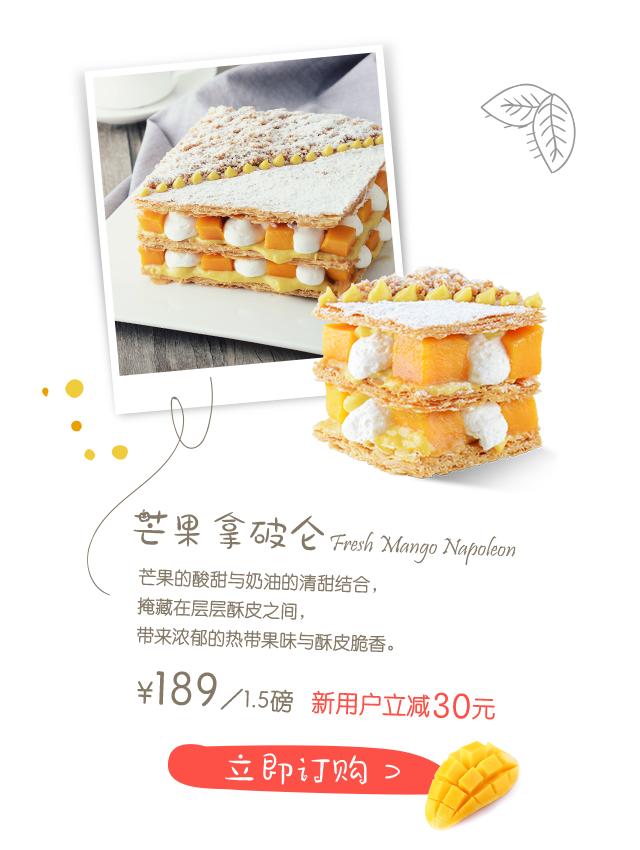
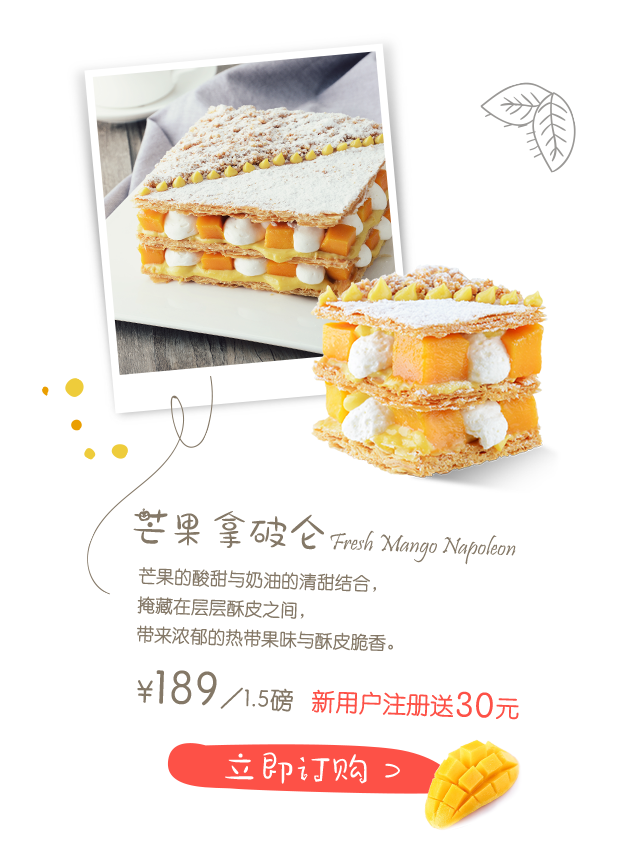
拿破仑注册送30

diff --git a/js/register-welfare16.js b/js/register-welfare16.js
@@ -11,32 +11,45 @@
 	
     function fnInit(){
         var $oContent = $('.content'),
+        	$oBtnBuy = $oContent.find('.btn-buy'),
             $oMaskResult = $('#mask-result'),
             $oBtnVcode = $oMaskResult.find('.btn-vcode'),
             $oResultInfo = $oMaskResult.find(".result-info"),
             $oBtnReg = $oResultInfo.find('#btn-register'),
             $oRegTip = $oResultInfo.find('.tips'),
             $oBtnCloseMask = $oMaskResult.find('.btn-result-close'),
+            regLogin = false, // 验证是否登录
             regMobile = true, // 手机号验证
             regVcode = true,  // 验证码验证
+            regUser = false, // 新老用户验证   true：新用户   false：老用户
+            tipIcon = 'dialog2/images/icon/success.png',
+            tipText = '领取成功',
+            count = 0, // 验证重复获取验证码
+            _interval = '',
             time = 58;
         
         setTimeout(function(){
         	$oMaskResult.fadeIn();
         },2000);
         
-        
         // 获取验证码
 	    $oBtnVcode.on("tap",function(){
-	    	$oBtnVcode.text('59" 后重新发送');
-	    	var interval = setInterval(function(){
-	    		$oBtnVcode.text(time-- +'" 后重新发送');
-	    		if(time==-1){
-	    			clearInterval(interval);
-	    			time = 58;
-	    			$oBtnVcode.text('获取验证码');
-	    		}
-	    	},1000);
+	    	// 验证重复获取验证码
+	    	if(count == 0){
+	    		count = 1;
+		    	$oBtnVcode.css({'background-color':'#99807f','border-color':'#99807f'});
+		    	$oBtnVcode.text('59" 后重新发送');
+		    	_interval = setInterval(function(){
+		    		$oBtnVcode.text(time-- +'" 后重新发送');
+		    		if(time==-1){
+		    			count = 0;
+		    			clearInterval(_interval);
+		    			time = 58;
+		    			$oBtnVcode.text('获取验证码');
+		    			$oBtnVcode.css({'background-color':'#983023','border-color':'#983023'});
+		    		}
+		    	},1000);
+	    	}	    	
 		});
         
 	    // 立即领取
@@ -46,16 +59,23 @@
         	if(regMobile){
         		// 验证码验证
         		if(regVcode){
+        			//新老用户验证
+        			if(regUser){
+						tipIcon='dialog2/images/icon/success.png';
+						tipText='领取成功';
+        			}else{
+        				tipIcon = 'dialog2/images/icon/fail.png';
+						tipText = '您已是老用户';
+        			}
+	    			clearInterval(_interval);
         			$oMaskResult.fadeOut();
-//  				setTimeout(function(){
-			        	$(document).dialog({
-							type: 'toast',
-							infoIcon: 'dialog2/images/icon/success.png',
-							infoText: '领取成功',
-							autoClose: '1500'
-						});
-//			        },1000);
-    				
+		        	$(document).dialog({
+						type: 'toast',
+						infoIcon: tipIcon,
+						infoText: tipText,
+						autoClose: '1500'
+					});
+					regLogin = true;
         		}else{
         			$oRegTip.text('验证码不正确');
         		}
@@ -67,9 +87,24 @@
         
         // 关闭弹窗
 		$oBtnCloseMask.on("tap",function(){
+			$oResultInfo.find('input').val('');
+			$oBtnVcode.text('获取验证码');
+			$oBtnVcode.css({'background-color':'#983023','border-color':'#983023'});
+			clearInterval(_interval);
+			time = 58;
+			count = 0;
 			$oMaskResult.fadeOut();
 		});
-
+		
+		// 立即订购
+		$oBtnBuy.on("tap",function(){
+			if(regLogin){
+				// 跳转至相应页面
+			}else{
+				$oMaskResult.fadeIn();
+			}
+		});
+		
     }
     
 })(Zepto, window, document);

diff --git a/css/register-welfare16.css b/css/register-welfare16.css
@@ -1,9 +1,9 @@
 body { max-width: 640px; margin: 0 auto; }
 .content { background: #fff url(../img/register-welfare16/bg.png); }
 .content .cakes { position: relative; }
-.content .cakes a { position: absolute; bottom: 3%; left: 27%; display: block; width: 45%; height: 30px; }
+.content .cakes a { position: absolute; bottom: 3%; left: 27%; display: block; width: 45%; height: 6%; }
 .content .cake02 a { bottom: 2.4%; left: 28%; }
-.content .cake03 a { bottom: 6%; left: 26%; }
+.content .cake03 a { bottom: 7%; left: 26%; }
 
 .content .rules { width: 90%;padding: 26px 5% 50px; background-color: #fd5147; text-align: justify; color: #fff; }
 .content .rules dt { margin-bottom: 4px; line-height: 30px; font-size: 18px; }
@@ -14,9 +14,9 @@ body { max-width: 640px; margin: 0 auto; }
 #mask-result { position: fixed; top: 0; left: 0; display: none; width: 100%; height: 100%; background: rgba(0, 0, 0, 0.7); z-index: 9999; }
 #mask-result img { width: 100%; }
 #mask-result .mask-bg,
-#mask-result .result { position: absolute; top: 50%; left: 0; right: 0; width: 90%; margin: auto; z-index: 9999; overflow: hidden; -webkit-transform: translateY(-50%); transform: translateY(-50%); }
-#mask-result .result { top: 30%; left: 3%;}
-#mask-result .result .btn-result-close { display: block; position: absolute; top: 2%; right: 10%; width: 10%; z-index: 999; }
+#mask-result .result { position: absolute; top: 50%; left: 0; right: 0; width: 90%; margin: auto; z-index: 9999; overflow: hidden; -webkit-transform: translateY(-30%); transform: translateY(-30%); }
+#mask-result .result { top: 54%; }
+#mask-result .btn-result-close { display: block; position: absolute; top: 37%; right: 10%; width: 10%; z-index: 99999; }
 
 #mask-result .result-info { width: 84%; margin: 28% auto 0; }
 #mask-result .result-info a { display: block; width: 100%; background-color: #0e2f8f; border-radius: 6px; font-size: 16px; line-height: 40px; text-align: center; color: #fff; }
@@ -25,7 +25,7 @@ body { max-width: 640px; margin: 0 auto; }
 #mask-result .result-login li { margin-bottom: 10px; }
 #mask-result .result-login li input { display: block; height: 36px; line-height: 36px; text-indent: 1em; -webkit-appearance: none; border: 1px solid #ddd; border-radius: 5px; outline: none; font-size: 12px; }
 #mask-result .result-login li .txt-vcode { float: left; width: 56%; border-radius: 5px 0 0 5px; }
-#mask-result .result-login li .btn-vcode { float: left; width: 44%; height: 36px; line-height: 36px; margin-left: -4px; text-align: center; border: 1px solid #99807f; border-radius: 0 5px 5px 0; color: #fff; background-color: #99807f; }
+#mask-result .result-login li .btn-vcode { float: left; width: 44%; height: 36px; line-height: 36px; margin-left: -4px; text-align: center; border: 1px solid #983023; border-radius: 0 5px 5px 0; color: #fff; background-color: #983023; }
 #mask-result .result-login li a { font-size: 12px; }
 #mask-result .result-login li .txt-mobile { width: 100%; }
 #mask-result .result-login .tips { width: 80%; margin: -4px auto 0; font-size: 12px; line-height: 12px; text-align: center; color: #fffc00; }

diff --git a/register-welfare16.html b/register-welfare16.html
@@ -50,10 +50,10 @@
 		<!-- 弹窗提示 begin -->
         <div id="mask-result">
         	<img src="img/register-welfare16/mask_bg.png" class="mask-bg"/>
+        	<a href="javascript:;" class="btn-result-close">
+                <img src="img/register-welfare16/btn_close.png" alt="">
+            </a>
             <div class="result">
-                <a href="javascript:;" class="btn-result-close">
-                    <img src="img/register-welfare16/btn_close.png" alt="">
-                </a>
                 <div class="result-content">
                 	<div class="result-info result-login">
 		                <ul class="frm">
